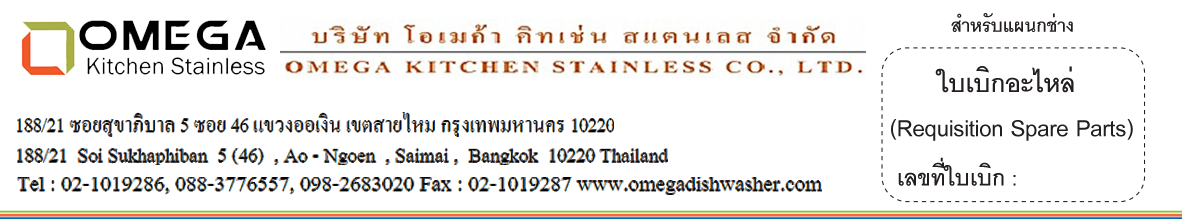
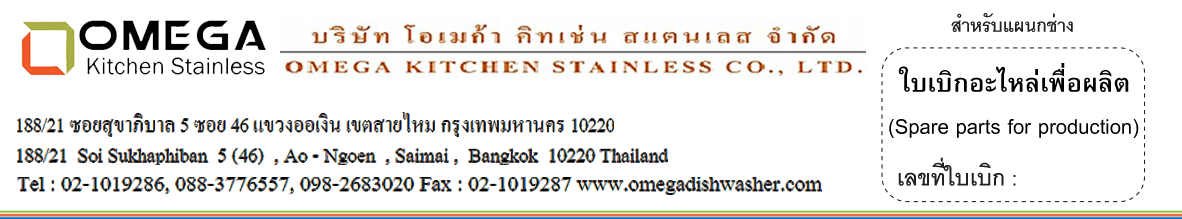
Updated Service Report 2

Changed region(s): [[0.7614, 0.3014, 0.9746, 0.4384], [0.731, 0.5479, 0.9746, 0.6301]]

diff --git a/administrator/service_report2/ajax.js b/administrator/service_report2/ajax.js
@@ -90,6 +90,7 @@ function get_cus(pval,chk){
    xmlHttp.send(null);
 }
 
+
 function get_sparpart(pval,resdata){
 	/*alert(pval);*/
 	var xmlHttp;

diff --git a/administrator/service_report2/update.php b/administrator/service_report2/update.php
@@ -253,6 +253,58 @@ function check(frm){
          return true;
       }
 </SCRIPT>
+
+<script type="text/javascript">
+	
+	
+	function get_customer(cid,cname,chk){
+		/*alert(cid);
+		alert(cname);*/
+		var sCustomerName = document.getElementById("cd_names");
+		
+		sCustomerName.value = cname;
+		
+		var sCustomerSource = document.getElementById("cus_source");
+		
+		sCustomerSource.value = chk;
+		checkfirstorder(cid,'cusadd','cusprovince','custel','cusfax','contactid','datef','datet','cscont','cstel','sloc_name','sevlast','prolist','sr_ctype2',chk);
+		document.getElementById("rsnameid").innerHTML="<input type=\"hidden\" name=\"cus_id\" value=\""+cid+"\">";
+	}
+	
+	function get_cus2(pval,chk){
+		/*alert(pval);*/
+		var xmlHttp;
+		
+		//alert(chk);
+		if(chk == 'po'){
+			document.getElementById("search_fo").value = '';
+		}else{
+			document.getElementById("search_po").value = '';
+		}
+		
+	   xmlHttp=GetXmlHttpObject(); //Check Support Brownser
+	   URL = pathLocal+'ajax_return.php?action=getcus2&pval='+pval+'&chk='+chk;
+	   if (xmlHttp==null){
+		  alert ("Browser does not support HTTP Request");
+		  return;
+	   }
+		xmlHttp.onreadystatechange=function (){
+			if (xmlHttp.readyState==4 || xmlHttp.readyState=="complete"){   
+				//document.getElementById('rscus').innerHTML = xmlHttp.responseText;
+				//alert(xmlHttp.responseText);
+				var ds = xmlHttp.responseText.split("|");
+				//alert(ds[1]);
+				get_customer(ds[1],ds[2],ds[3]);
+				
+			} else{
+			  //document.getElementById(ElementId).innerHTML="<div class='loading'> Loading..</div>" ;
+			}
+	   };
+	   xmlHttp.open("GET",URL,true);
+	   xmlHttp.send(null);
+	}
+
+</script>
 </HEAD>
 <?php    include ("../../include/function_script.php"); ?>
 <BODY>
@@ -425,11 +477,17 @@ function check(frm){
           </tr>
           <tr>
             <td><strong>ที่อยู่ :</strong> <span id="cusadd"><?php   echo $finfo['cd_address'];?></span></td>
-            <td><strong>เลขที่บริการ</strong> :
+            <td>
+            <strong>เลขที่บริการ</strong> :
 <input type="text" name="sv_id" value="<?php   if($sv_id == ""){echo check_serviceman($conn);}else{echo $sv_id;};?>" id="sv_id" class="inpfoder" style="border:0;">
-&nbsp;&nbsp;<strong>เลขที่ใบงาน</strong> : <!--<input type="text" name="sv_id" value="<?php   if($sv_id == ""){echo "SR";}else{echo $sv_id;};?>" id="sv_id" class="inpfoder" style="border:0;">&nbsp;&nbsp;เลขที่สัญญา  :</strong> <span id="contactid"><?php   echo $finfo['fs_id'];?></span>--><strong>
-<input type="text" name="srid" value="<?php   echo $srid;?>" id="srid" class="inpfoder">
-</strong></td>
+
+<!--&nbsp;&nbsp;<strong>เลขที่ใบงาน</strong> : -->
+<!--<input type="text" name="sv_id" value="<?php   if($sv_id == ""){echo "SR";}else{echo $sv_id;};?>" id="sv_id" class="inpfoder" style="border:0;">&nbsp;&nbsp;เลขที่สัญญา  :</strong> <span id="contactid"><?php   echo $finfo['fs_id'];?></span><strong>
+<input type="text" name="srid" value="<?php   echo $srid;?>" id="srid" class="inpfoder"></strong>-->
+			
+			<strong>เลขที่ FO :</strong> <input type="text" name="search_fo" value="<?php echo $search_fo;?>" id="search_fo" class="inpfoder" onkeyup="get_cus2(this.value,'fo');">&nbsp;&nbsp;
+			<strong>เลขที่ PJ :</strong> <input type="text" name="search_po" value="<?php echo $search_po;?>" id="search_po" class="inpfoder" onkeyup="get_cus2(this.value,'po');">
+			</td>
           </tr>
           <tr>
             <td><strong>จังหวัด :</strong> <span id="cusprovince"><?php   echo province_name($conn,$finfo['cd_province']);?></span></td>

diff --git a/administrator/service_report_approve/index.php b/administrator/service_report_approve/index.php
@@ -96,16 +96,16 @@ function MM_jumpMenu(targ,selObj,restore){ //v3.0
 <P id=page-intro><?php   echo $page_name; ?></P>
 
 <UL class=shortcut-buttons-set>
-    <LI><A class=shortcut-button href="../service_report_approve/index.php"><SPAN><IMG  alt=icon src="../images/icons/icon-48-section.png"><BR>
-    เปิด - ปิดใบงาน</SPAN></A></LI>
-    <LI><A class=shortcut-button href="../service_report_approve/index2.php"><SPAN><IMG  alt=icon src="../images/icons/icon-48-section.png"><BR>
-    ใบเบิกอะไหล่</SPAN></A></LI>
-    <LI><A class=shortcut-button href="../service_report_approve/index3.php"><SPAN><IMG  alt=icon src="../images/icons/icon-48-section.png"><BR>
-    ใบยืมอะไหล่</SPAN></A></LI>
-    <LI><A class=shortcut-button href="../service_report_approve/index5.php"><SPAN><IMG  alt=icon src="../images/icons/icon-48-section.png"><BR>
-    ใบคืนอะไหล่</SPAN></A></LI>
-    <LI><A class=shortcut-button href="../service_report_approve/index4.php"><SPAN><IMG  alt=icon src="../images/icons/icon-48-section.png"><BR>
-    ใบรายงานติดตั้ง</SPAN></A></LI>
+    <LI><A class=shortcut-button href="../service_report/"><SPAN><IMG  alt=icon src="../images/icons/icon-48-section.png"><BR>
+    เปิด - ปิดใบงาน<br><br></SPAN></A></LI>
+    <LI><A class=shortcut-button href="../service_report2/"><SPAN><IMG  alt=icon src="../images/icons/icon-48-section.png"><BR>
+    ใบเบิกอะไหล่เพื่อการผลิต</SPAN></A></LI>
+    <LI><A class=shortcut-button href="../service_report3/"><SPAN><IMG  alt=icon src="../images/icons/icon-48-section.png"><BR>
+    ใบยืมอะไหล่<br><br></SPAN></A></LI>
+    <LI><A class=shortcut-button href="../service_report5/"><SPAN><IMG  alt=icon src="../images/icons/icon-48-section.png"><BR>
+    ใบคืนอะไหล่<br><br></SPAN></A></LI>
+    <LI><A class=shortcut-button href="../service_report4/"><SPAN><IMG  alt=icon src="../images/icons/icon-48-section.png"><BR>
+    ใบรายงานติดตั้ง<br><br></SPAN></A></LI>
     <?php  
 	if ($FR_module <> "") { 
 	$param2 = get_return_param();

diff --git a/administrator/service_report5/index.php b/administrator/service_report5/index.php
@@ -82,20 +82,22 @@ function MM_jumpMenu(targ,selObj,restore){ //v3.0
 <P id=page-intro><?php   echo $page_name; ?></P>
 
 <UL class=shortcut-buttons-set>
-  <!--<LI><A class=shortcut-button href="update.php?mode=add<?php  if ($param <> "") echo "&".$param; ?>"><SPAN><IMG  alt=icon src="../images/pencil_48.png"><BR>
-    เพิ่ม</SPAN></A></LI>-->
+<!--
+  <LI><A class=shortcut-button href="update.php?mode=add<?php     if ($param <> "") echo "&".$param; ?>"><SPAN><IMG  alt=icon src="../images/pencil_48.png"><BR>
+    เพิ่ม<br><br></SPAN></A></LI>
+-->
     <LI><A class=shortcut-button href="../service_report/"><SPAN><IMG  alt=icon src="../images/icons/icon-48-section.png"><BR>
-    เปิด - ปิดใบงาน</SPAN></A></LI>
+    เปิด - ปิดใบงาน<br><br></SPAN></A></LI>
     <LI><A class=shortcut-button href="../service_report2/"><SPAN><IMG  alt=icon src="../images/icons/icon-48-section.png"><BR>
-    ใบเบิกอะไหล่</SPAN></A></LI>
+    ใบเบิกอะไหล่เพื่อการผลิต</SPAN></A></LI>
     <LI><A class=shortcut-button href="../service_report3/"><SPAN><IMG  alt=icon src="../images/icons/icon-48-section.png"><BR>
-    ใบยืมอะไหล่</SPAN></A></LI>
+    ใบยืมอะไหล่<br><br></SPAN></A></LI>
     <LI><A class=shortcut-button href="../service_report5/"><SPAN><IMG  alt=icon src="../images/icons/icon-48-section.png"><BR>
-    ใบคืนอะไหล่</SPAN></A></LI>
+    ใบคืนอะไหล่<br><br></SPAN></A></LI>
     <LI><A class=shortcut-button href="../service_report4/"><SPAN><IMG  alt=icon src="../images/icons/icon-48-section.png"><BR>
-    ใบรายงานติดตั้ง</SPAN></A></LI>
+    ใบรายงานติดตั้ง<br><br></SPAN></A></LI>
     <LI><A class=shortcut-button href="../service_report_approve/"><SPAN><IMG  alt=icon src="../images/icons/icon-48-user.png"><BR>
-    อนุมัติใบงาน</SPAN></A></LI>
+    อนุมัติใบงาน<br><br></SPAN></A></LI>
     <?php  
 	if ($FR_module <> "") { 
 	$param2 = get_return_param();

diff --git a/administrator/service_report3/index.php b/administrator/service_report3/index.php
@@ -128,20 +128,20 @@ function MM_jumpMenu(targ,selObj,restore){ //v3.0
 <P id=page-intro><?php   echo $page_name; ?></P>
 
 <UL class=shortcut-buttons-set>
-  <LI><A class=shortcut-button href="update.php?mode=add<?php  if ($param <> "") echo "&".$param; ?>"><SPAN><IMG  alt=icon src="../images/pencil_48.png"><BR>
-    เพิ่ม</SPAN></A></LI>
+  <LI><A class=shortcut-button href="update.php?mode=add<?php     if ($param <> "") echo "&".$param; ?>"><SPAN><IMG  alt=icon src="../images/pencil_48.png"><BR>
+    เพิ่ม<br><br></SPAN></A></LI>
     <LI><A class=shortcut-button href="../service_report/"><SPAN><IMG  alt=icon src="../images/icons/icon-48-section.png"><BR>
-    เปิด - ปิดใบงาน</SPAN></A></LI>
+    เปิด - ปิดใบงาน<br><br></SPAN></A></LI>
     <LI><A class=shortcut-button href="../service_report2/"><SPAN><IMG  alt=icon src="../images/icons/icon-48-section.png"><BR>
-    ใบเบิกอะไหล่</SPAN></A></LI>
+    ใบเบิกอะไหล่เพื่อการผลิต</SPAN></A></LI>
     <LI><A class=shortcut-button href="../service_report3/"><SPAN><IMG  alt=icon src="../images/icons/icon-48-section.png"><BR>
-    ใบยืมอะไหล่</SPAN></A></LI>
+    ใบยืมอะไหล่<br><br></SPAN></A></LI>
     <LI><A class=shortcut-button href="../service_report5/"><SPAN><IMG  alt=icon src="../images/icons/icon-48-section.png"><BR>
-    ใบคืนอะไหล่</SPAN></A></LI>
+    ใบคืนอะไหล่<br><br></SPAN></A></LI>
     <LI><A class=shortcut-button href="../service_report4/"><SPAN><IMG  alt=icon src="../images/icons/icon-48-section.png"><BR>
-    ใบรายงานติดตั้ง</SPAN></A></LI>
+    ใบรายงานติดตั้ง<br><br></SPAN></A></LI>
     <LI><A class=shortcut-button href="../service_report_approve/"><SPAN><IMG  alt=icon src="../images/icons/icon-48-user.png"><BR>
-    อนุมัติใบงาน</SPAN></A></LI>
+    อนุมัติใบงาน<br><br></SPAN></A></LI>
     <?php  
 	if ($FR_module <> "") { 
 	$param2 = get_return_param();

diff --git a/administrator/service_report4/index.php b/administrator/service_report4/index.php
@@ -95,20 +95,20 @@ function MM_jumpMenu(targ,selObj,restore){ //v3.0
 <P id=page-intro><?php   echo $page_name; ?></P>
 
 <UL class=shortcut-buttons-set>
-  <LI><A class=shortcut-button href="update.php?mode=add<?php  if ($param <> "") echo "&".$param; ?>"><SPAN><IMG  alt=icon src="../images/pencil_48.png"><BR>
-    เพิ่ม</SPAN></A></LI>
+  <LI><A class=shortcut-button href="update.php?mode=add<?php     if ($param <> "") echo "&".$param; ?>"><SPAN><IMG  alt=icon src="../images/pencil_48.png"><BR>
+    เพิ่ม<br><br></SPAN></A></LI>
     <LI><A class=shortcut-button href="../service_report/"><SPAN><IMG  alt=icon src="../images/icons/icon-48-section.png"><BR>
-    เปิด - ปิดใบงาน</SPAN></A></LI>
+    เปิด - ปิดใบงาน<br><br></SPAN></A></LI>
     <LI><A class=shortcut-button href="../service_report2/"><SPAN><IMG  alt=icon src="../images/icons/icon-48-section.png"><BR>
-    ใบเบิกอะไหล่</SPAN></A></LI>
+    ใบเบิกอะไหล่เพื่อการผลิต</SPAN></A></LI>
     <LI><A class=shortcut-button href="../service_report3/"><SPAN><IMG  alt=icon src="../images/icons/icon-48-section.png"><BR>
-    ใบยืมอะไหล่</SPAN></A></LI>
+    ใบยืมอะไหล่<br><br></SPAN></A></LI>
     <LI><A class=shortcut-button href="../service_report5/"><SPAN><IMG  alt=icon src="../images/icons/icon-48-section.png"><BR>
-    ใบคืนอะไหล่</SPAN></A></LI>
+    ใบคืนอะไหล่<br><br></SPAN></A></LI>
     <LI><A class=shortcut-button href="../service_report4/"><SPAN><IMG  alt=icon src="../images/icons/icon-48-section.png"><BR>
-    ใบรายงานติดตั้ง</SPAN></A></LI>
+    ใบรายงานติดตั้ง<br><br></SPAN></A></LI>
     <LI><A class=shortcut-button href="../service_report_approve/"><SPAN><IMG  alt=icon src="../images/icons/icon-48-user.png"><BR>
-    อนุมัติใบงาน</SPAN></A></LI>
+    อนุมัติใบงาน<br><br></SPAN></A></LI>
     <?php  
 	if ($FR_module <> "") { 
 	$param2 = get_return_param();

diff --git a/administrator/service_report/index.php b/administrator/service_report/index.php
@@ -88,19 +88,19 @@ function MM_jumpMenu(targ,selObj,restore){ //v3.0
 
 <UL class=shortcut-buttons-set>
   <LI><A class=shortcut-button href="update.php?mode=add<?php     if ($param <> "") echo "&".$param; ?>"><SPAN><IMG  alt=icon src="../images/pencil_48.png"><BR>
-    เพิ่ม</SPAN></A></LI>
+    เพิ่ม<br><br></SPAN></A></LI>
     <LI><A class=shortcut-button href="../service_report/"><SPAN><IMG  alt=icon src="../images/icons/icon-48-section.png"><BR>
-    เปิด - ปิดใบงาน</SPAN></A></LI>
+    เปิด - ปิดใบงาน<br><br></SPAN></A></LI>
     <LI><A class=shortcut-button href="../service_report2/"><SPAN><IMG  alt=icon src="../images/icons/icon-48-section.png"><BR>
-    ใบเบิกอะไหล่</SPAN></A></LI>
+    ใบเบิกอะไหล่เพื่อการผลิต</SPAN></A></LI>
     <LI><A class=shortcut-button href="../service_report3/"><SPAN><IMG  alt=icon src="../images/icons/icon-48-section.png"><BR>
-    ใบยืมอะไหล่</SPAN></A></LI>
+    ใบยืมอะไหล่<br><br></SPAN></A></LI>
     <LI><A class=shortcut-button href="../service_report5/"><SPAN><IMG  alt=icon src="../images/icons/icon-48-section.png"><BR>
-    ใบคืนอะไหล่</SPAN></A></LI>
+    ใบคืนอะไหล่<br><br></SPAN></A></LI>
     <LI><A class=shortcut-button href="../service_report4/"><SPAN><IMG  alt=icon src="../images/icons/icon-48-section.png"><BR>
-    ใบรายงานติดตั้ง</SPAN></A></LI>
+    ใบรายงานติดตั้ง<br><br></SPAN></A></LI>
     <LI><A class=shortcut-button href="../service_report_approve/"><SPAN><IMG  alt=icon src="../images/icons/icon-48-user.png"><BR>
-    อนุมัติใบงาน</SPAN></A></LI>
+    อนุมัติใบงาน<br><br></SPAN></A></LI>
     <?php     
 	if ($FR_module <> "") { 
 	$param2 = get_return_param();

diff --git a/administrator/service_report2/index.php b/administrator/service_report2/index.php
@@ -97,19 +97,19 @@ function MM_jumpMenu(targ,selObj,restore){ //v3.0
 
 <UL class=shortcut-buttons-set>
   <LI><A class=shortcut-button href="update.php?mode=add<?php     if ($param <> "") echo "&".$param; ?>"><SPAN><IMG  alt=icon src="../images/pencil_48.png"><BR>
-    เพิ่ม</SPAN></A></LI>
+    เพิ่ม<br><br></SPAN></A></LI>
     <LI><A class=shortcut-button href="../service_report/"><SPAN><IMG  alt=icon src="../images/icons/icon-48-section.png"><BR>
-    เปิด - ปิดใบงาน</SPAN></A></LI>
+    เปิด - ปิดใบงาน<br><br></SPAN></A></LI>
     <LI><A class=shortcut-button href="../service_report2/"><SPAN><IMG  alt=icon src="../images/icons/icon-48-section.png"><BR>
-    ใบเบิกอะไหล่</SPAN></A></LI>
+    ใบเบิกอะไหล่เพื่อการผลิต</SPAN></A></LI>
     <LI><A class=shortcut-button href="../service_report3/"><SPAN><IMG  alt=icon src="../images/icons/icon-48-section.png"><BR>
-    ใบยืมอะไหล่</SPAN></A></LI>
+    ใบยืมอะไหล่<br><br></SPAN></A></LI>
     <LI><A class=shortcut-button href="../service_report5/"><SPAN><IMG  alt=icon src="../images/icons/icon-48-section.png"><BR>
-    ใบคืนอะไหล่</SPAN></A></LI>
+    ใบคืนอะไหล่<br><br></SPAN></A></LI>
     <LI><A class=shortcut-button href="../service_report4/"><SPAN><IMG  alt=icon src="../images/icons/icon-48-section.png"><BR>
-    ใบรายงานติดตั้ง</SPAN></A></LI>
+    ใบรายงานติดตั้ง<br><br></SPAN></A></LI>
     <LI><A class=shortcut-button href="../service_report_approve/"><SPAN><IMG  alt=icon src="../images/icons/icon-48-user.png"><BR>
-    อนุมัติใบงาน</SPAN></A></LI>
+    อนุมัติใบงาน<br><br></SPAN></A></LI>
     <?php     
 	if ($FR_module <> "") { 
 	$param2 = get_return_param();

diff --git a/administrator/service_report2/config.php b/administrator/service_report2/config.php
@@ -6,7 +6,7 @@
 	$page_name = "Service Report (ใบเบิกอะไหล่)";
 	$tbl_name = "s_service_report2";
 	$field_confirm_showname= "cus_id";
-	$fieldlist = array('cus_id','sv_id','srid','srid2','sr_ctype','sr_ctype2','job_open','job_close','job_balance','sr_stime','loc_pro','loc_seal','loc_sn','loc_clean','loc_contact','loc_contact2','loc_contact3','cs_sell','loc_tels','cl_01','cl_02','cl_03','cl_04','cl_05','cl_06','cl_07','cl_08','detail_recom','detail_recom2','ckl_list','ckw_list','ckf_list','detail_calpr','approve','supply','st_setting','loc_date2','sell_date','loc_date3','ref_date','cus_source');
+	$fieldlist = array('cus_id','sv_id','srid','srid2','sr_ctype','sr_ctype2','job_open','job_close','job_balance','sr_stime','loc_pro','loc_seal','loc_sn','loc_clean','loc_contact','loc_contact2','loc_contact3','cs_sell','loc_tels','cl_01','cl_02','cl_03','cl_04','cl_05','cl_06','cl_07','cl_08','detail_recom','detail_recom2','ckl_list','ckw_list','ckf_list','detail_calpr','approve','supply','st_setting','loc_date2','sell_date','loc_date3','ref_date','cus_source',"search_fo","search_po");
 	$search_key = array("sv_id","cd_name","loc_name");
 	$pagesize = 50;
 	$pages="user";

diff --git a/administrator/service_report2/ajax_return.php b/administrator/service_report2/ajax_return.php
@@ -77,6 +77,28 @@
 		}
 		//echo "SELECT cd_name FROM s_first_order ".$consd." ORDER BY cd_name ASC";
 	}
+
+	if($_GET['action'] == 'getcus2'){
+		$cd_name = $_REQUEST['pval'];
+		$chk = $_REQUEST['chk'];
+
+		if($cd_name != ""){
+			$consd = "AND fs_id = '".$cd_name."'";
+		}
+
+		$tableDB = '';
+		if($chk == 'po'){
+			$tableDB = 's_project_order';
+		}else{
+			$tableDB = 's_first_order';
+		}
+
+		$qu_cus = mysqli_query($conn,"SELECT * FROM ".$tableDB." WHERE 1 ".$consd);
+		$row_cusx = @mysqli_fetch_array($qu_cus);
+		
+		echo '|'.$row_cusx['fo_id'].'|'.$row_cusx['cd_name'].'|'.$chk;
+		//echo "SELECT cd_name FROM s_first_order ".$consd." ORDER BY cd_name ASC";
+	}
 	
 	if($_GET['action'] == 'getsparpart'){
 		$cd_name = $_REQUEST['pval'];
